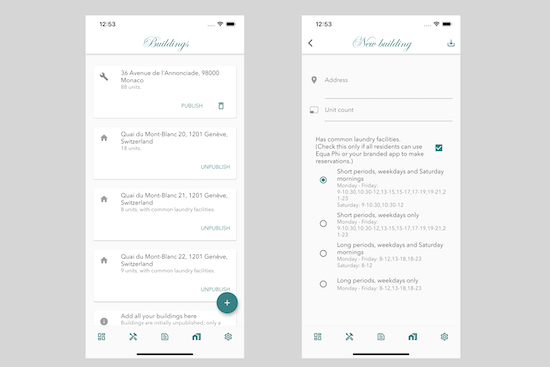
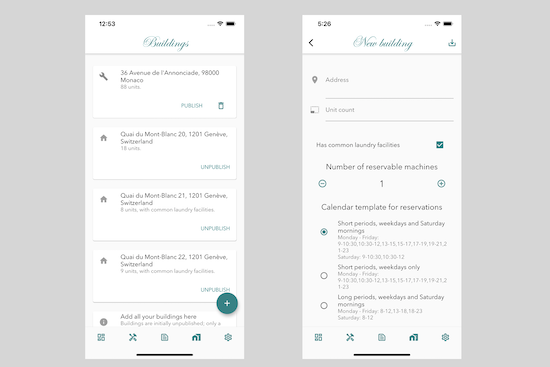
Multi-machine laundry facilities, laundry facility posters

diff --git a/fr/product/property-managers/index.html b/fr/product/property-managers/index.html
@@ -154,7 +154,7 @@
 				<h3 class="font-weight-light">03.</h3>
 				<h4>Gestion des buanderies communes</h4>
 				<p>
-				Activez la fonction de réservation pour vos résidents en indiquant la présence de buanderies communes dans vos immeubles. Pour chaque immeuble, choisissez un calendrier de réservation parmi des modèles prédéfinis. Cette fonction convient aux cas où tous vos résidents peuvent utiliser Equa Phi ou votre application de marque pour faire des réservations.
+				Activez la fonction de réservation pour vos résidents en indiquant la présence de buanderies communes dans vos immeubles. Pour chaque immeuble, indiquez le nombre de machines réservables et choisissez un calendrier de réservation parmi des modèles prédéfinis. S'il y a plusieurs machines, étiquetez-les physiquement en commençant par "1".
 				</p>
 			</div>
 		</div>
@@ -219,8 +219,8 @@
 					
 						<i class="ti-pin2 text-dark"></i>
 					
-					<h6 class="heading-uppercase">Posters pour vos immeubles</h6>
-					<p>Montrez à vos habitants comment télécharger l'appli Equa Phi.
+					<h6 class="heading-uppercase">Affiche pour vos immeubles</h6>
+					<p>Placez cette affiche à l'intérieur de vos bâtiments pour montrer à vos résidents où télécharger l'application Equa Phi.
 
 						
 							<br>
@@ -235,11 +235,32 @@
 				<div class="icon-left-box icon-3xl">
 					
 					
-						<i class="ti-receipt text-dark"></i>
+						<i class="ti-pin2 text-dark"></i>
 					
-					<h6 class="heading-uppercase">Abonnement de base</h6>
-					<p>Prix abordable avec essai gratuit de 14 jours. Abonnements disponibles pour 2000, 4000, 6000, 8000 et 10000 unités d'habitation, au prix d'environ 0,42 € / CA$ 0,54 / CHF 0.42 par unité d'habitation par an. Les abonnements peuvent être achetés dans l'application Equa Delta. Disponibilité: monde entier.
+					<h6 class="heading-uppercase">Affiche pour votre buanderie commune</h6>
+					<p>Placez cette affiche dans les buanderies communes si les résidents sont tenus d'avoir un smartphone ou une tablette.
 
+						
+							<br>
+							<a href="https://drive.google.com/file/d/1hnjYofxzmhDaajx0trNUq-K1Fep-EB1U/view?usp=sharing" target='_blank'>Suite ➤</a>
+						
+					</p>
+				</div>
+			</div>
+			
+			<!-- Icon text box 1 -->
+			<div class="col-12 col-md-6 col-lg-4">
+				<div class="icon-left-box icon-3xl">
+					
+					
+						<i class="ti-pin2 text-dark"></i>
+					
+					<h6 class="heading-uppercase">Variante d'affiche pour votre buanderie commune</h6>
+					<p>Placez cette affiche dans les buanderies communes si les résidents ne sont pas tenus d'avoir un smartphone ou une tablette.
+
+						
+							<br>
+							<a href="https://drive.google.com/file/d/1wt4av1SJskDOBJKgXaPbWlBV0A9LdVVs/view?usp=sharing" target='_blank'>Suite ➤</a>
 						
 					</p>
 				</div>
@@ -252,8 +273,8 @@
 					
 						<i class="ti-receipt text-dark"></i>
 					
-					<h6 class="heading-uppercase">Application avec votre logo et marque</h6>
-					<p>Offrez aux résidents votre application de marque au lieu de l'application standard Equa Phi (qu'ils peuvent également utiliser); vos résidents ne verront que les bâtiments gérés par votre entreprise. Prix: 175 € /  CA$ 275.- / CHF 190.- par mois. Disponibilité: monde entier. Adresse e-mail pour tout renseignement: support@equa.world.
+					<h6 class="heading-uppercase">Abonnement de base</h6>
+					<p>Prix abordable avec essai gratuit de 14 jours. Abonnements disponibles pour 2000, 4000, 6000, 8000 et 10000 unités d'habitation, au prix d'environ 0,42 € / CA$ 0,54 / CHF 0.42 par unité d'habitation par an. Les abonnements peuvent être achetés dans l'application Equa Delta. Disponibilité: monde entier.
 
 						
 					</p>

diff --git a/en/product/property-managers/index.html b/en/product/property-managers/index.html
@@ -154,7 +154,7 @@
 				<h3 class="font-weight-light">03.</h3>
 				<h4>Manage your buildings' laundry facilities</h4>
 				<p>
-				Activate the time slot reservation function for your residents by indicating the presence of common laundry facilities in your buildings. For each facility, choose a reservation calendar from predefined templates. Enable this function if all your residents can use Equa Phi or your branded app to make reservations.
+				Activate the time slot reservation function for your residents by indicating the presence of common laundry facilities in your buildings. For each facility, indicate the number of reservable machines and choose a reservation calendar from predefined templates. If there are several machines, tag them physically starting from "1".
 				</p>
 			</div>
 		</div>
@@ -219,8 +219,8 @@
 					
 						<i class="ti-pin2 text-dark"></i>
 					
-					<h6 class="heading-uppercase">Posters for your buildings</h6>
-					<p>Show your residents where to download the Equa Phi app.
+					<h6 class="heading-uppercase">Poster for your buildings</h6>
+					<p>Put this poster up inside your buildings to show your residents where to download the Equa Phi app.
 
 						
 							<br>
@@ -235,11 +235,32 @@
 				<div class="icon-left-box icon-3xl">
 					
 					
-						<i class="ti-receipt text-dark"></i>
+						<i class="ti-pin2 text-dark"></i>
 					
-					<h6 class="heading-uppercase">Baseline subscription</h6>
-					<p>Affordable pricing with 14-day free trial. Subscriptions available for 2000, 4000, 6000, 8000 and 10000 habitation units, priced at about US$ 0.37 / ₤ 0.32 / CA$ 0.54 / AU$ 0.61 / € 0.42 per habitation unit per year. Subscriptions can be purchased inside the Equa Delta app. Available worldwide.
+					<h6 class="heading-uppercase">Poster for your shared laundry facilities</h6>
+					<p>Put this poster up in shared laundry rooms if all residents are required to have smart phones or tablets.
 
+						
+							<br>
+							<a href="https://drive.google.com/file/d/1hnjYofxzmhDaajx0trNUq-K1Fep-EB1U/view?usp=sharing" target='_blank'>More ➤</a>
+						
+					</p>
+				</div>
+			</div>
+			
+			<!-- Icon text box 1 -->
+			<div class="col-12 col-md-6 col-lg-4">
+				<div class="icon-left-box icon-3xl">
+					
+					
+						<i class="ti-pin2 text-dark"></i>
+					
+					<h6 class="heading-uppercase">Poster variant for your shared laundry facilities</h6>
+					<p>Put this poster up in shared laundry rooms if all residents aren't required to have smart phones or tablets.
+
+						
+							<br>
+							<a href="https://drive.google.com/file/d/1wt4av1SJskDOBJKgXaPbWlBV0A9LdVVs/view?usp=sharing" target='_blank'>More ➤</a>
 						
 					</p>
 				</div>
@@ -252,8 +273,8 @@
 					
 						<i class="ti-receipt text-dark"></i>
 					
-					<h6 class="heading-uppercase">Branded app</h6>
-					<p>Offer residents your branded app instead of the standard Equa Phi app (that they can also use); residents will only see buildings that your company is managing. Price: US$ 210.- / ₤ 160.- / CA$ 275.- / AU$ 290.- / € 175.- per month. Available worldwide. Email address for inquiries: support@equa.world.
+					<h6 class="heading-uppercase">Baseline subscription</h6>
+					<p>Affordable pricing with 14-day free trial. Subscriptions available for 2000, 4000, 6000, 8000 and 10000 habitation units, priced at about US$ 0.37 / ₤ 0.32 / CA$ 0.54 / AU$ 0.61 / € 0.42 per habitation unit per year. Subscriptions can be purchased inside the Equa Delta app. Available worldwide.
 
 						
 					</p>

diff --git a/de/product/property-managers/index.html b/de/product/property-managers/index.html
@@ -154,7 +154,7 @@
 				<h3 class="font-weight-light">03.</h3>
 				<h4>Die gemeinsamen Wäschereien verwalten</h4>
 				<p>
-				Aktivieren Sie die Zeitfenster-Reservierungsfunktion für Ihre Bewohner, indem Sie die gemeinsamen Wäschereien Ihrer Gebäuden eingeben. Wählen Sie für jede Wäscherei einen Reservierungskalender aus vordefinierten Vorlagen. Diese Funktion in dem Fall geeignet, wenn alle Ihre Bewohner Equa Phi oder Ihre Marken-App verwenden können, um Reservierungen vorzunehmen.
+				Aktivieren Sie die Zeitfenster-Reservierungsfunktion für Ihre Bewohner, indem Sie die gemeinsamen Wäschereien Ihrer Gebäuden eingeben. Geben Sie für jede Einrichtung die Anzahl der reservierbaren Maschinen an und wählen Sie einen Reservierungskalender aus vordefinierten Vorlagen aus. Wenn mehrere Maschinen vorhanden sind, kennzeichnen Sie sie physisch ab "1".
 				</p>
 			</div>
 		</div>
@@ -219,12 +219,48 @@
 					
 						<i class="ti-pin2 text-dark"></i>
 					
-					<h6 class="heading-uppercase">Plakate für Ihre Gebäude</h6>
-					<p>Zeigen Sie Ihnen Bewohnern, wo sie Equa Phi herunterladen können.
+					<h6 class="heading-uppercase">Plakat für Ihre Gebäude</h6>
+					<p>Bringen Sie dieses Plakat in Ihren Gebäuden an, um den Bewohnern zu zeigen, wo sie die Equa Phi-App herunterladen können.
 
 						
 							<br>
 							<a href="https://drive.google.com/open?id=1gmFRNVWQEvbiclfI6jrpukwD8ch6Z3xt" target='_blank'>Mehr ➤</a>
+						
+					</p>
+				</div>
+			</div>
+			
+			<!-- Icon text box 1 -->
+			<div class="col-12 col-md-6 col-lg-4">
+				<div class="icon-left-box icon-3xl">
+					
+					
+						<i class="ti-pin2 text-dark"></i>
+					
+					<h6 class="heading-uppercase">Plakat für gemeinsame Wäschereien</h6>
+					<p>Stellen Sie dieses Plakat in gemeinsamen Waschräumen auf, wenn alle Bewohner Smartphones oder Tablets benötigen.
+
+						
+							<br>
+							<a href="https://drive.google.com/file/d/1hnjYofxzmhDaajx0trNUq-K1Fep-EB1U/view?usp=sharing" target='_blank'>Mehr ➤</a>
+						
+					</p>
+				</div>
+			</div>
+			
+			<!-- Icon text box 1 -->
+			<div class="col-12 col-md-6 col-lg-4">
+				<div class="icon-left-box icon-3xl">
+					
+					
+						<i class="ti-pin2 text-dark"></i>
+					
+					<h6 class="heading-uppercase">Plakatvariante für gemeinsame Wäschereien</h6>
+					<p>Bringen Sie dieses Plakat in gemeinsamen Waschräumen an, wenn nicht alle Bewohner Smartphones oder Tablets benötigen.
+
+						
+							<br>
+							<a href="https://drive.google.com/file/d/1wt4av1SJskDOBJKgXaPbWlBV0A9LdVVs/view?usp=sharing" target='_blank'>Mehr ➤</a>
 						
 					</p>
 				</div>

diff --git a/de/company/contact/index.html b/de/company/contact/index.html
@@ -148,7 +148,9 @@
 						<p>
 							<a href="https://www.google.ch/maps/place/Avenue+de+Vaudagne+31,+1217+Meyrin/@46.2336606,6.0740508,17z/data=!3m1!4b1!4m5!3m4!1s0x478c630c6a9b500d:0x822d59f9717977ab!8m2!3d46.2336606!4d6.0762395" target='_blank'>
 							
-								Avenue de Vaudagne 31 <br>
+								Armangil Software, <br>
+							
+								Avenue de Vaudagne 31, <br>
 							
 								CH-1217 Meyrin, Switzerland <br>
 							

diff --git a/en/company/contact/index.html b/en/company/contact/index.html
@@ -148,7 +148,9 @@
 						<p>
 							<a href="https://www.google.ch/maps/place/Avenue+de+Vaudagne+31,+1217+Meyrin/@46.2336606,6.0740508,17z/data=!3m1!4b1!4m5!3m4!1s0x478c630c6a9b500d:0x822d59f9717977ab!8m2!3d46.2336606!4d6.0762395" target='_blank'>
 							
-								Avenue de Vaudagne 31 <br>
+								Armangil Software, <br>
+							
+								Avenue de Vaudagne 31, <br>
 							
 								CH-1217 Meyrin, Switzerland <br>
 							

diff --git a/fr/company/contact/index.html b/fr/company/contact/index.html
@@ -148,7 +148,9 @@
 						<p>
 							<a href="https://www.google.ch/maps/place/Avenue+de+Vaudagne+31,+1217+Meyrin/@46.2336606,6.0740508,17z/data=!3m1!4b1!4m5!3m4!1s0x478c630c6a9b500d:0x822d59f9717977ab!8m2!3d46.2336606!4d6.0762395" target='_blank'>
 							
-								Avenue de Vaudagne 31 <br>
+								Armangil Software, <br>
+							
+								Avenue de Vaudagne 31, <br>
 							
 								CH-1217 Meyrin, Switzerland <br>
 							

diff --git a/de/product/property-managers/privacy-policy/index.html b/de/product/property-managers/privacy-policy/index.html
@@ -46,7 +46,9 @@
   </p><blockquote class='mt-2 ml-2'>
     Armangil Software <br>
     
-      Avenue de Vaudagne 31 <br>
+      Armangil Software, <br>
+    
+      Avenue de Vaudagne 31, <br>
     
       CH-1217 Meyrin, Switzerland <br>
     

diff --git a/de/product/property-managers/terms-of-service/index.html b/de/product/property-managers/terms-of-service/index.html
@@ -44,7 +44,9 @@
   <blockquote class='mt-2 ml-2'>
     Armangil Software <br>
     
-      Avenue de Vaudagne 31 <br>
+      Armangil Software, <br>
+    
+      Avenue de Vaudagne 31, <br>
     
       CH-1217 Meyrin, Switzerland <br>
     

diff --git a/de/product/tenants/privacy-policy/index.html b/de/product/tenants/privacy-policy/index.html
@@ -49,7 +49,9 @@
   <blockquote class='mt-2 ml-2'>
     Armangil Software <br>
     
-      Avenue de Vaudagne 31 <br>
+      Armangil Software, <br>
+    
+      Avenue de Vaudagne 31, <br>
     
       CH-1217 Meyrin, Switzerland <br>
     

diff --git a/de/product/tenants/terms-of-service/index.html b/de/product/tenants/terms-of-service/index.html
@@ -44,7 +44,9 @@
   <blockquote class='mt-2 ml-2'>
     Armangil Software <br>
     
-      Avenue de Vaudagne 31 <br>
+      Armangil Software, <br>
+    
+      Avenue de Vaudagne 31, <br>
     
       CH-1217 Meyrin, Switzerland <br>
     

diff --git a/en/product/property-managers/privacy-policy/index.html b/en/product/property-managers/privacy-policy/index.html
@@ -48,7 +48,9 @@
   <blockquote class='mt-2 ml-2'>
     Armangil Software <br>
     
-      Avenue de Vaudagne 31 <br>
+      Armangil Software, <br>
+    
+      Avenue de Vaudagne 31, <br>
     
       CH-1217 Meyrin, Switzerland <br>
     

diff --git a/en/product/property-managers/terms-of-service/index.html b/en/product/property-managers/terms-of-service/index.html
@@ -44,7 +44,9 @@
   <blockquote class='mt-2 ml-2'>
     Armangil Software <br>
     
-      Avenue de Vaudagne 31 <br>
+      Armangil Software, <br>
+    
+      Avenue de Vaudagne 31, <br>
     
       CH-1217 Meyrin, Switzerland <br>
     
